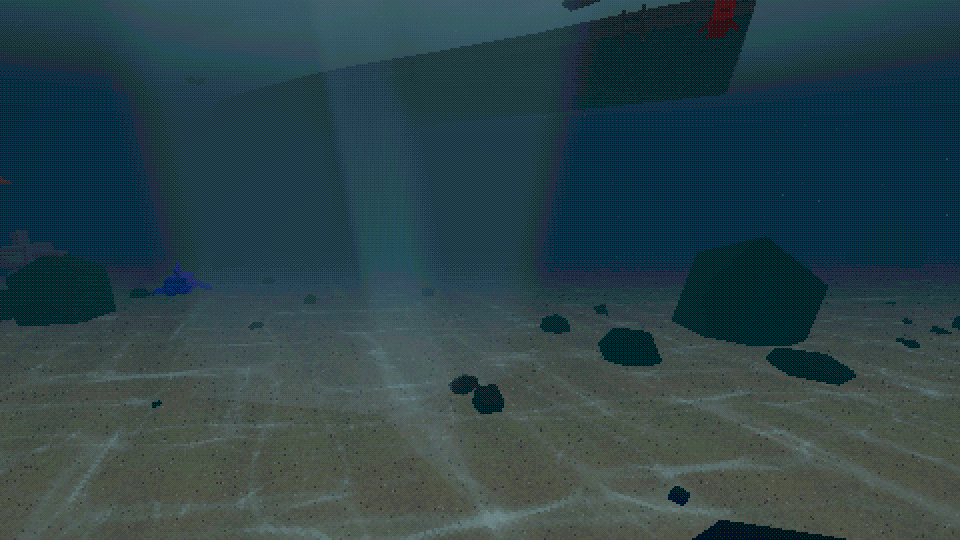
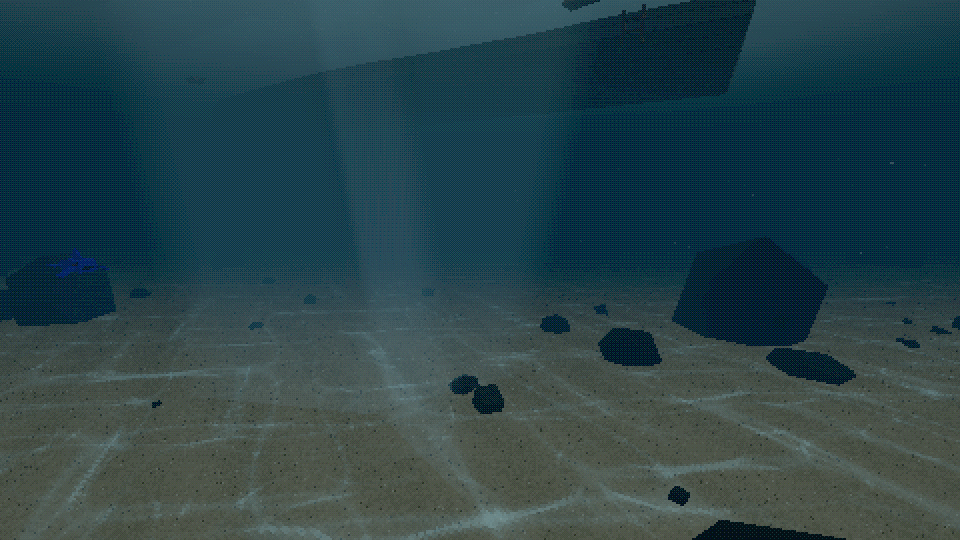
Optik: Kaustik mit Tiefenauslauf, variierte Nischenfiguren
- Kaustik skaliert mit der Wassertiefe (CONFIG.render.kaustik): flach
  am Ufer deutlich, in der Tiefe aus
- Nischenfiguren in drei Varianten (Wächter, Träger, schlanke Figur mit
  Brust-Juwel) statt gleichförmiger Reihe
- Art-Bible: Kaustik-Inventar, Tempel-Zeile und offene Punkte aktualisiert
- art/nachher (19 Posen) neu aufgenommen

diff --git a/src/rendering/Kaustik.ts b/src/rendering/Kaustik.ts
@@ -1,4 +1,5 @@
 import * as THREE from 'three';
+import { CONFIG } from '../config';
 import { pixelTexture } from './Textures';
 
 // Kaustik auf dem Seeboden: das wandernde Lichtnetz der Sonne auf dem
@@ -7,27 +8,39 @@ import { pixelTexture } from './Textures';
 // So liegt das Muster exakt auf dem (unebenen) Boden, ohne dass eine
 // zweite Fläche verlegt werden muss.
 //
+// Die Stärke hängt von der Tiefe ab (siehe CONFIG.render.kaustik):
+// flach am Ufer ist das Netz deutlich, in der Tiefe läuft es aus.
+//
 // Ein gemeinsamer Satz Uniformen steuert Zeit und Stärke für alle
 // eingehängten Materialien; `aktualisiereKaustik` wird pro Bild aus der
 // Welt aufgerufen.
 
+const K = CONFIG.render.kaustik;
+
 const uZeit = { value: 0 };
-const uStaerke = { value: 0.7 };
+const uStaerke = { value: K.staerke };
+const uTiefeFlach = { value: K.flach };
+const uTiefeTief = { value: K.tief };
 const uTextur = { value: pixelTexture('caustic.png', 1, 1) };
 
 const VERT_KOPF = 'varying vec3 vKausWorld;\n';
 const FRAG_KOPF = /* glsl */ `uniform float uKausZeit;
 uniform float uKausStaerke;
+uniform float uKausTiefeFlach;
+uniform float uKausTiefeTief;
 uniform sampler2D uKausTextur;
 varying vec3 vKausWorld;
 `;
 
 const FRAG_EINSCHUB = /* glsl */ `
   if (uKausStaerke > 0.001) {
+    // Tiefenauslauf: bis uKausTiefeFlach voll, ab uKausTiefeTief aus
+    float tiefe = max(0.0, -vKausWorld.y);
+    float tiefenFade = 1.0 - smoothstep(uKausTiefeFlach, uKausTiefeTief, tiefe);
     vec2 cUv = vKausWorld.xz * 0.05;
     float c1 = texture2D(uKausTextur, cUv + vec2(uKausZeit * 0.010, uKausZeit * 0.007)).r;
     float c2 = texture2D(uKausTextur, cUv * 1.6 - vec2(uKausZeit * 0.008, uKausZeit * 0.012)).r;
-    float c = pow(clamp((c1 + c2 * 0.8) * 0.7, 0.0, 1.0), 1.3) * uKausStaerke;
+    float c = pow(clamp((c1 + c2 * 0.8) * 0.7, 0.0, 1.0), 1.3) * uKausStaerke * tiefenFade;
     gl_FragColor.rgb += c * vec3(0.30, 0.55, 0.60);
   }
 `;
@@ -37,6 +50,8 @@ export function mitKaustik<T extends THREE.Material>(material: T): T {
   material.onBeforeCompile = (shader) => {
     shader.uniforms.uKausZeit = uZeit;
     shader.uniforms.uKausStaerke = uStaerke;
+    shader.uniforms.uKausTiefeFlach = uTiefeFlach;
+    shader.uniforms.uKausTiefeTief = uTiefeTief;
     shader.uniforms.uKausTextur = uTextur;
     shader.vertexShader = VERT_KOPF + shader.vertexShader.replace(
       '#include <begin_vertex>',

diff --git a/src/world/Tiefentempel.ts b/src/world/Tiefentempel.ts
@@ -431,20 +431,36 @@ export class Tiefentempel {
   // den Übergang ins Labyrinth.
   private bauNischen(b: Bau): void {
     const c = INNEN - 1.6;
+    let art = 0;
     for (const sx of [-1, 1]) {
-      for (const sz of [-1, 1]) this.kleineStatue(b, sx * c, sz * c);
+      for (const sz of [-1, 1]) this.kleineStatue(b, sx * c, sz * c, art++);
     }
     const ex = zellMitte(PLAN.eingang);
     const ez = LAB_HALB + WAND / 2;
-    for (const s of [-1, 1]) this.kleineStatue(b, ex + s * 2.6, ez + 1.5);
+    for (const s of [-1, 1]) this.kleineStatue(b, ex + s * 2.6, ez + 1.5, art++);
   }
 
-  private kleineStatue(b: Bau, x: number, z: number): void {
+  // Drei Varianten einer kleinen Wächterfigur, damit die Reihe nicht
+  // gleichförmig wirkt: Wächter mit Kopfschmuck, Träger mit Block,
+  // schlanke Figur mit Brust-Juwel.
+  private kleineStatue(b: Bau, x: number, z: number, art: number): void {
     b.box(x, 0, z, 1.6, 0.4, 1.6, SOCKEL);
-    b.box(x, 0.4, z, 1.0, 2.0, 0.9, BASALT);
-    b.box(x, 2.4, z, 1.5, 0.5, 1.0, BASALT);
-    b.box(x, 2.9, z, 0.8, 0.8, 0.8, GRUENSPAN);
-    b.boxFarbe(x, 3.7, z, 1.0, 0.2, 1.0, 0x9a7440, 1.6);
+    if (art % 3 === 0) {
+      b.box(x, 0.4, z, 1.0, 2.0, 0.9, BASALT);
+      b.box(x, 2.4, z, 1.5, 0.5, 1.0, BASALT);
+      b.box(x, 2.9, z, 0.8, 0.8, 0.8, GRUENSPAN);
+      b.boxFarbe(x, 3.7, z, 1.0, 0.2, 1.0, 0x9a7440, 1.6);
+    } else if (art % 3 === 1) {
+      b.box(x, 0.4, z, 1.0, 1.9, 0.9, BASALT);
+      b.box(x, 2.3, z, 1.4, 0.5, 1.0, BASALT);
+      b.box(x, 2.8, z, 0.8, 0.7, 0.8, BRONZE);
+      b.boxFarbe(x, 1.1, z + 0.95, 1.2, 1.1, 0.7, 0x9a7440, 1.4);
+    } else {
+      b.box(x, 0.4, z, 0.8, 2.3, 0.8, BASALT);
+      b.box(x, 2.7, z, 1.2, 0.4, 0.8, BASALT);
+      b.box(x, 3.1, z, 0.7, 0.7, 0.7, GRUENSPAN);
+      b.glow(x, 1.9, z + 0.42, 0.3, 0.3, 0.06, 0xffd27a);
+    }
   }
 
   // Außenwände mit Tor, Decke, Strebepfeiler, Glimmsteine im Umgang

diff --git a/src/config.ts b/src/config.ts
@@ -22,6 +22,15 @@ export const CONFIG = {
     // und zieht den Blick zur Mitte (Art-Bible, Abschnitt "Bild").
     vignette: 0.3,
 
+    // Kaustik auf dem Seeboden (rendering/Kaustik.ts): Grundstärke und
+    // die Tiefe, ab der sie einsetzt bzw. ausläuft. Flach am Ufer ist
+    // das Lichtnetz deutlich, in der Tiefe verschwindet es.
+    kaustik: {
+      staerke: 0.8, // Grundstärke im flachen Wasser
+      flach: 10, // bis hier volle Stärke (Meter unter der Oberfläche)
+      tief: 46, // ab hier keine Kaustik mehr
+    },
+
     // Atmosphärische Störung: ein Flimmern über dem ganzen Bild, wie
     // bei einem gestörten Empfang. Die Stärke (0..1) kommt aus dem
     // Spiel – bisher vom Blick-Countdown des Stalkers (siehe

diff --git a/docs/art-bible.md b/docs/art-bible.md
@@ -106,7 +106,8 @@ Körnung überall gleich groß wirkt:
 - **Kaustik:** das wandernde Lichtnetz auf dem Seeboden. Es hängt nicht
   als eigene Fläche in der Welt, sondern wird über `onBeforeCompile` in
   die Grundmaterialien eingehängt (`rendering/Kaustik.ts`), liegt also
-  exakt auf dem unebenen Grund.
+  exakt auf dem unebenen Grund. Die Stärke fällt mit der Wassertiefe
+  (`CONFIG.render.kaustik`): flach am Ufer deutlich, in der Tiefe aus.
 - **Störung / Vignette:** siehe Abschnitt 2.
 - Neue Effekte müssen die Palette nutzen und dürfen die Störung nicht
   entwerten.
@@ -143,11 +144,11 @@ npm run textures     # Texturen neu erzeugen
 | Boot (Rumpf, Deck, Räume, Brücke) | `world/Boat.ts`, `Hull.ts`, `Room.ts` | ✓ Rumpf-/Wandtönung, Palette |
 | Wasser + Trübung + Schaum | `world/Ocean.ts` | ✓ Palette, Sonnenrichtung, Küsten-/Kamm-Schaum |
 | Unterwasser-Teilchen + Lichtschächte | `world/Meerespartikel.ts`, `Lichtschacht.ts` | ✓ neu |
-| Kaustik auf dem Seeboden | `rendering/Kaustik.ts` | ✓ neu |
+| Kaustik auf dem Seeboden | `rendering/Kaustik.ts` | ✓ neu, mit Tiefenauslauf |
 | Vignette | `rendering/PixelRenderer.ts` | ✓ neu |
 | Kreaturen- und Item-Modelle | `public/assets/models/*.glb` | Leos Blockbench-Modelle – unverändert, originale Materialien |
 | Licht/Atmosphäre | `world/World.ts`, `rendering/Palette.ts` | ✓ zentrale Palette + Sonnenrichtung |
-| Tempel + Pagoden | `world/Tiefentempel.ts`, `Pagoden.ts` | ✓ `temple.png`, Säulen, Reliefs, Wächterstatuen am Tor, Nischenfiguren, Feuerschalen mit Licht |
+| Tempel + Pagoden | `world/Tiefentempel.ts`, `Pagoden.ts` | ✓ `temple.png`, Säulen, Reliefs, Wächterstatuen am Tor, Nischenfiguren (3 Varianten), Feuerschalen mit Licht |
 | HUD/UI | `styles/ui.css` | ✓ in Farbvariablen zentralisiert (Palette) |
 
 Standpunkte der Prüfbilder (19): `klippen`, `klippen_fuss`, `boot_aussen`,
@@ -156,6 +157,7 @@ Standpunkte der Prüfbilder (19): `klippen`, `klippen_fuss`, `boot_aussen`,
 `tempel`, `umgang`, `tempel_ecke`, `labyrinth`, `schatz`,
 `katalog_modelle`, `katalog_texturen`.
 
-Noch offen: Kaustik-Stärke je Tiefe, mehr Variation der Nischenfiguren.
+Alle Elementklassen sind damit gegen die Art-Bible abgeglichen und mit
+Prüfbildern belegt.
 
 
